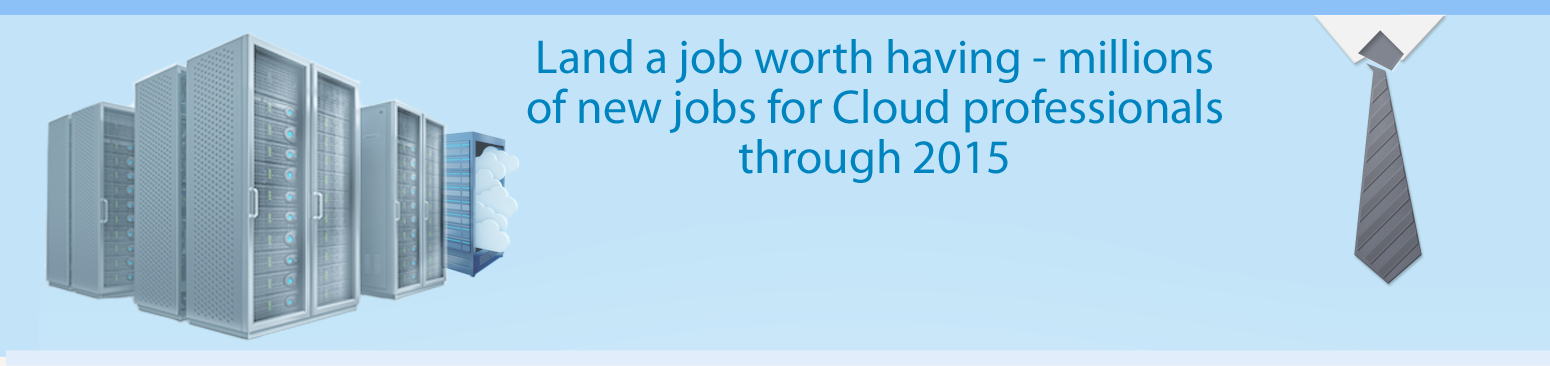
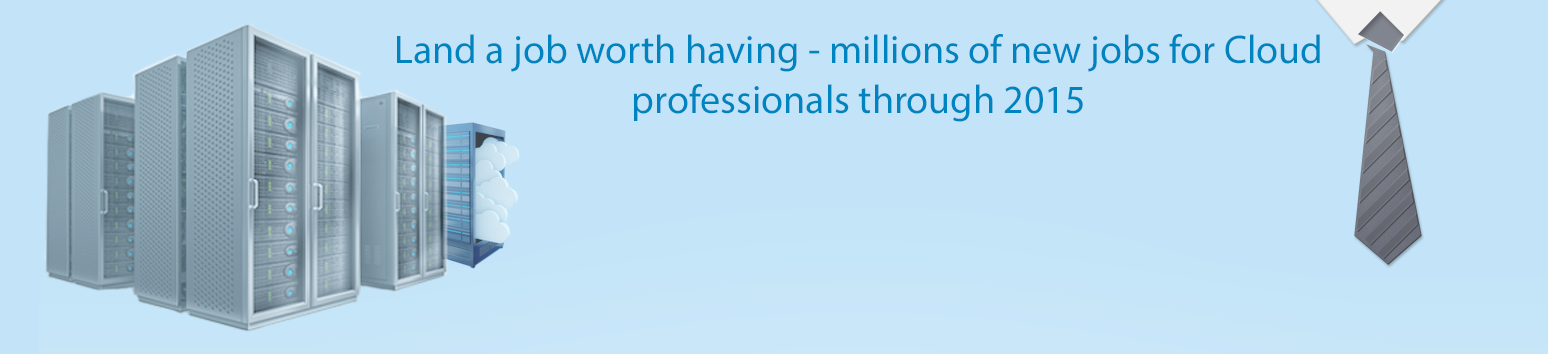
adding more details

diff --git a/views/preview.html b/views/preview.html
@@ -7,6 +7,9 @@
     {% if not enrolled %}
     body 
     {% endif %}
+    .navbar {
+        margin-bottom: 0 !important;
+    }
 </style>
 
 <script>
@@ -23,9 +26,10 @@
 </script>
 {% endblock %}
 
-{% block top_content %}
-<div class="content-box">
-<div id="myCarousel" class="carousel slide hidden-phone">
+{% block first_content %}
+<div style="display: block;background: #c6e4f7;" >
+<div class="container" >
+<div id="myCarousel" class="carousel slide hidden-phone" style="margin-bottom: 0">
     <ol class="carousel-indicators">
         <li data-target="#myCarousel" data-slide-to="0" class="active"></li>
         <li data-target="#myCarousel" data-slide-to="1" class=""></li>
@@ -35,28 +39,66 @@
         <div class="item active">
             <img src="assets/img/preview/banner_1.png" alt="">
             <!--<div class="carousel-caption" style="height: 12px; opacity: 10;">-->
-                <!--&lt;!&ndash;<h4>First Thumbnail label</h4>&ndash;&gt;-->
-                <!--&lt;!&ndash;<p>Cras justo odio, dapibus ac facilisis in, </p>&ndash;&gt;-->
+            <!--&lt;!&ndash;<h4>First Thumbnail label</h4>&ndash;&gt;-->
+            <!--&lt;!&ndash;<p>Cras justo odio, dapibus ac facilisis in, </p>&ndash;&gt;-->
             <!--</div>-->
         </div>
         <div class="item">
             <img src="assets/img/preview/banner_2.png" alt="">
             <!--<div class="carousel-caption" style="height: 12px">-->
-                <!--&lt;!&ndash;<h4>Second Thumbnail label</h4>&ndash;&gt;-->
-                <!--&lt;!&ndash;<p>Cras justo odio, dapibus ac facilisis in, egestas eget quam. Donec id elit non</p>&ndash;&gt;-->
+            <!--&lt;!&ndash;<h4>Second Thumbnail label</h4>&ndash;&gt;-->
+            <!--&lt;!&ndash;<p>Cras justo odio, dapibus ac facilisis in, egestas eget quam. Donec id elit non</p>&ndash;&gt;-->
             <!--</div>-->
         </div>
         <div class="item">
             <img src="assets/img/preview/banner_3.png" alt="">
             <!--<div class="carousel-caption" style="height: 12px">-->
-                <!--&lt;!&ndash;<h4>Third Thumbnail label</h4>&ndash;&gt;-->
-                <!--&lt;!&ndash;<p>Cras justo odio, dapibus ac facilisis in, egestas eget quam. Donec id elit</p>&ndash;&gt;-->
+            <!--&lt;!&ndash;<h4>Third Thumbnail label</h4>&ndash;&gt;-->
+            <!--&lt;!&ndash;<p>Cras justo odio, dapibus ac facilisis in, egestas eget quam. Donec id elit</p>&ndash;&gt;-->
             <!--</div>-->
         </div>
     </div>
     <a class="left carousel-control" href="#myCarousel" data-slide="prev">‹</a>
     <a class="right carousel-control" href="#myCarousel" data-slide="next">›</a>
 </div>
+</div>
+        </div>
+{% endblock %}
+
+{% block top_content %}
+<!--<div class="content-box" style="margin-top: 30px">-->
+<!--<div id="myCarousel" class="carousel slide hidden-phone">-->
+    <!--<ol class="carousel-indicators">-->
+        <!--<li data-target="#myCarousel" data-slide-to="0" class="active"></li>-->
+        <!--<li data-target="#myCarousel" data-slide-to="1" class=""></li>-->
+        <!--<li data-target="#myCarousel" data-slide-to="2" class=""></li>-->
+    <!--</ol>-->
+    <!--<div class="carousel-inner">-->
+        <!--<div class="item active">-->
+            <!--<img src="assets/img/preview/banner_1.png" alt="">-->
+            <!--&lt;!&ndash;<div class="carousel-caption" style="height: 12px; opacity: 10;">&ndash;&gt;-->
+                <!--&lt;!&ndash;&lt;!&ndash;<h4>First Thumbnail label</h4>&ndash;&gt;&ndash;&gt;-->
+                <!--&lt;!&ndash;&lt;!&ndash;<p>Cras justo odio, dapibus ac facilisis in, </p>&ndash;&gt;&ndash;&gt;-->
+            <!--&lt;!&ndash;</div>&ndash;&gt;-->
+        <!--</div>-->
+        <!--<div class="item">-->
+            <!--<img src="assets/img/preview/banner_2.png" alt="">-->
+            <!--&lt;!&ndash;<div class="carousel-caption" style="height: 12px">&ndash;&gt;-->
+                <!--&lt;!&ndash;&lt;!&ndash;<h4>Second Thumbnail label</h4>&ndash;&gt;&ndash;&gt;-->
+                <!--&lt;!&ndash;&lt;!&ndash;<p>Cras justo odio, dapibus ac facilisis in, egestas eget quam. Donec id elit non</p>&ndash;&gt;&ndash;&gt;-->
+            <!--&lt;!&ndash;</div>&ndash;&gt;-->
+        <!--</div>-->
+        <!--<div class="item">-->
+            <!--<img src="assets/img/preview/banner_3.png" alt="">-->
+            <!--&lt;!&ndash;<div class="carousel-caption" style="height: 12px">&ndash;&gt;-->
+                <!--&lt;!&ndash;&lt;!&ndash;<h4>Third Thumbnail label</h4>&ndash;&gt;&ndash;&gt;-->
+                <!--&lt;!&ndash;&lt;!&ndash;<p>Cras justo odio, dapibus ac facilisis in, egestas eget quam. Donec id elit</p>&ndash;&gt;&ndash;&gt;-->
+            <!--&lt;!&ndash;</div>&ndash;&gt;-->
+        <!--</div>-->
+    <!--</div>-->
+    <!--<a class="left carousel-control" href="#myCarousel" data-slide="prev">‹</a>-->
+    <!--<a class="right carousel-control" href="#myCarousel" data-slide="next">›</a>-->
+<!--</div>-->
 
 <div class="row-fluid marketing">
     <div class="span6">
@@ -333,7 +375,7 @@
     <!--</div>&lt;!&ndash; /.span4 &ndash;&gt;-->
 <!--</div>-->
 
-</div>
+<!--</div>-->
 {% endblock %}
 
 {% block main_content %}
